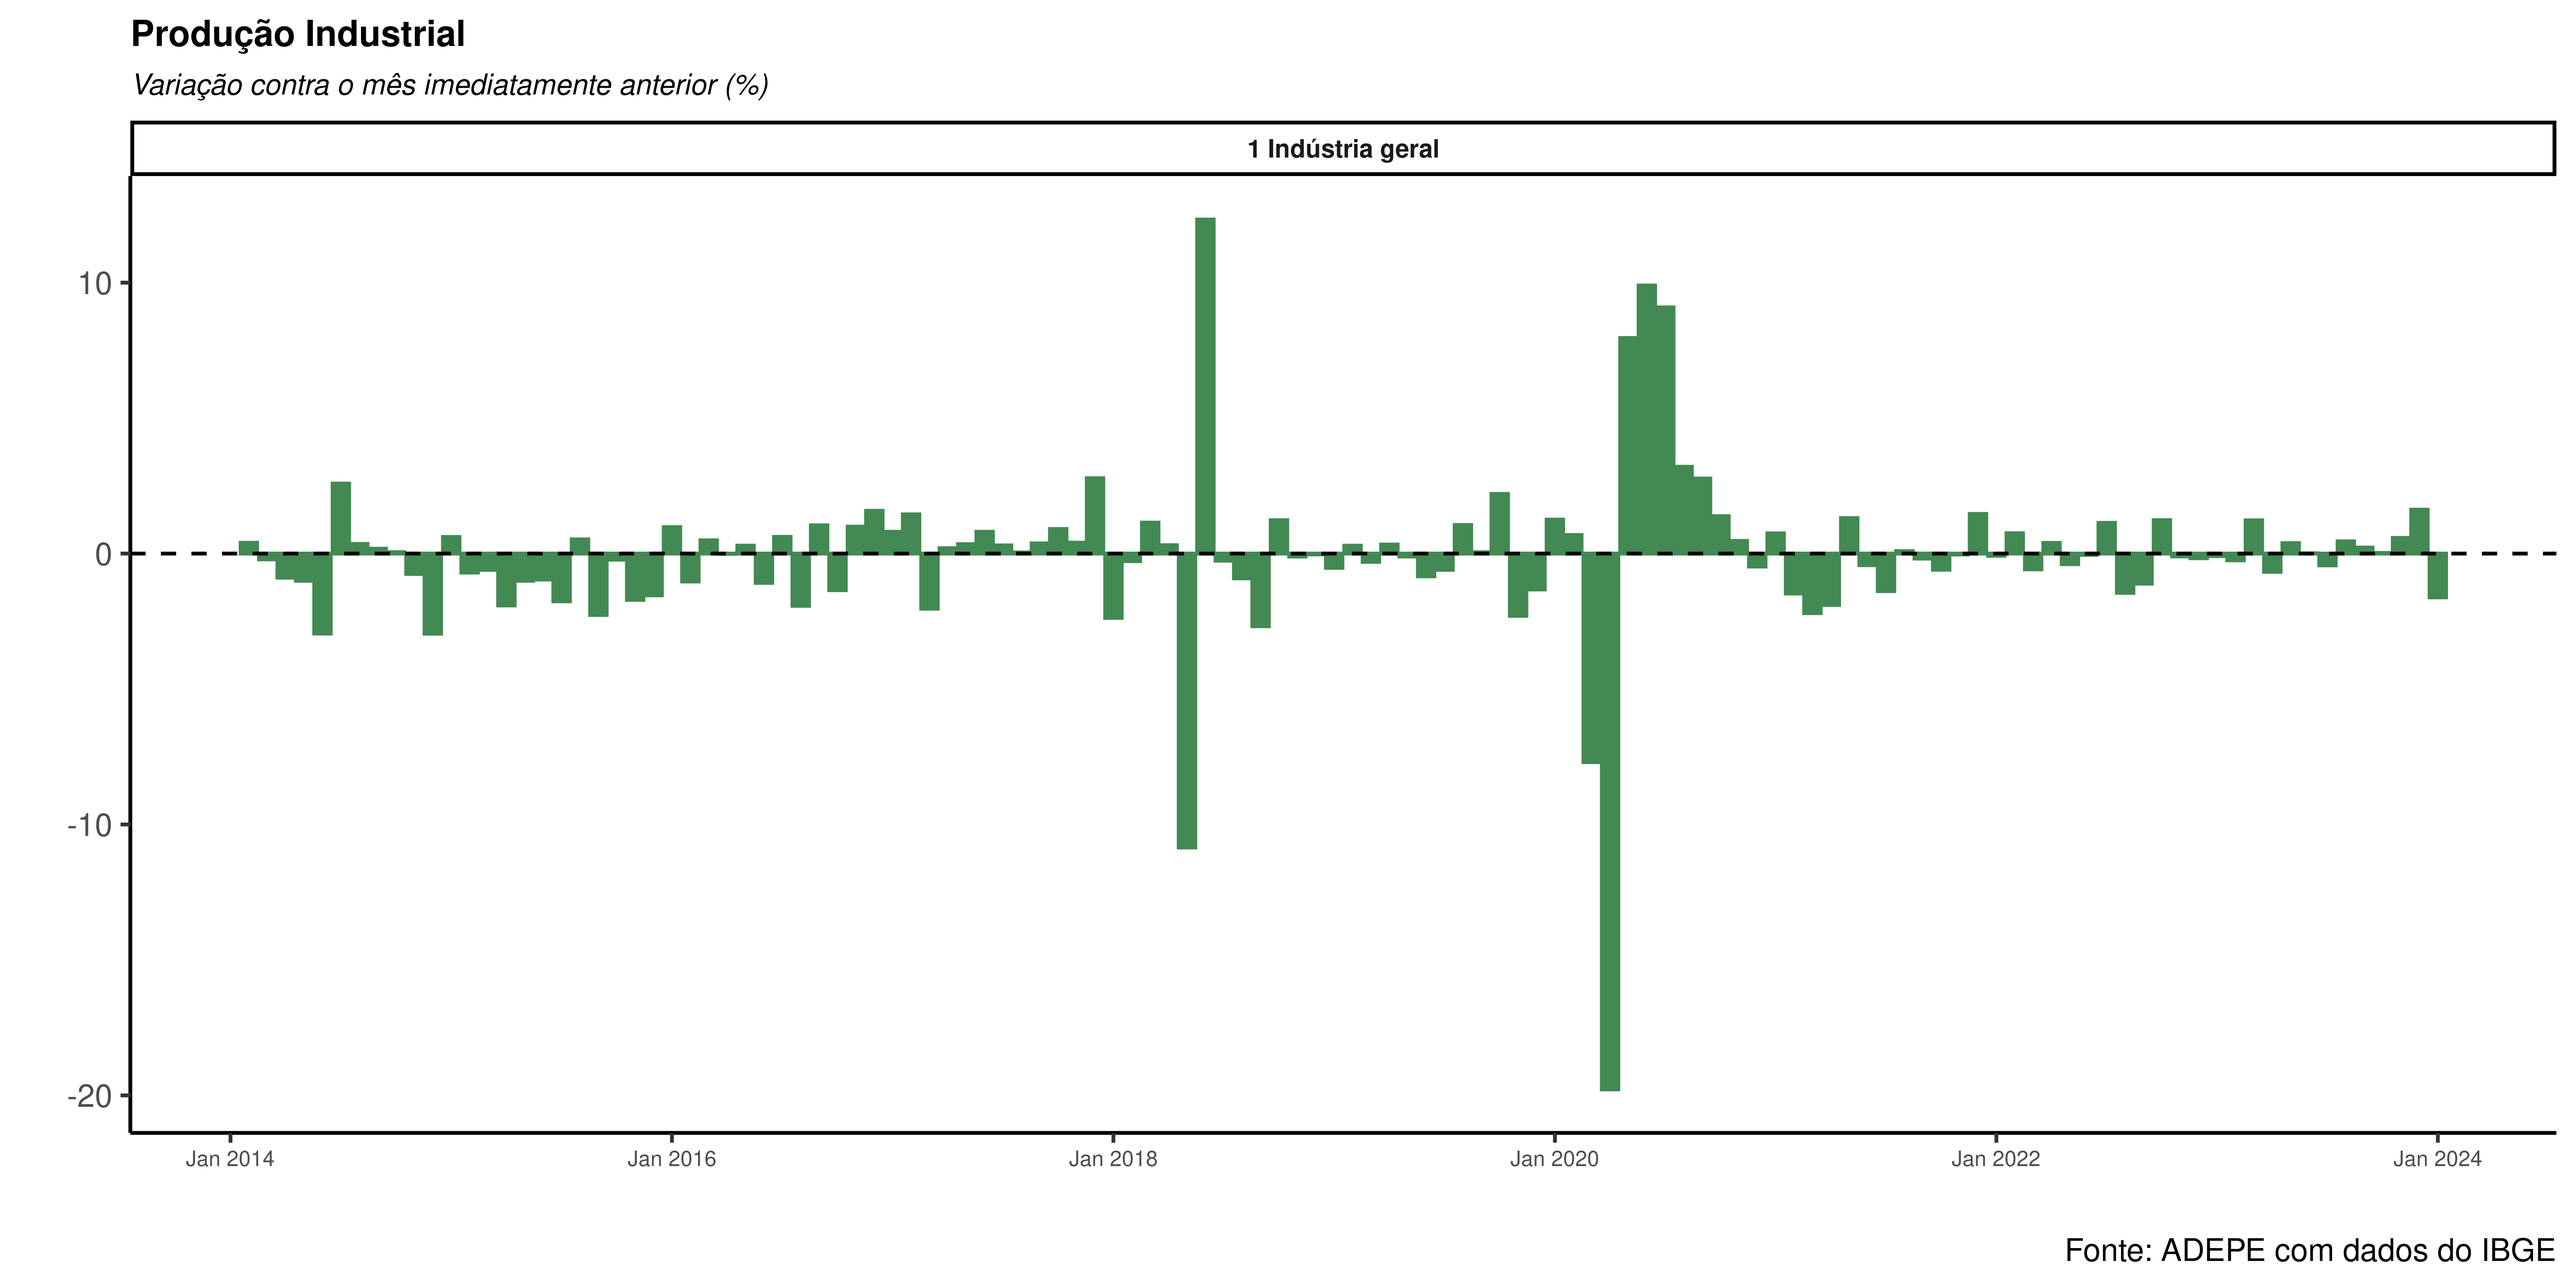
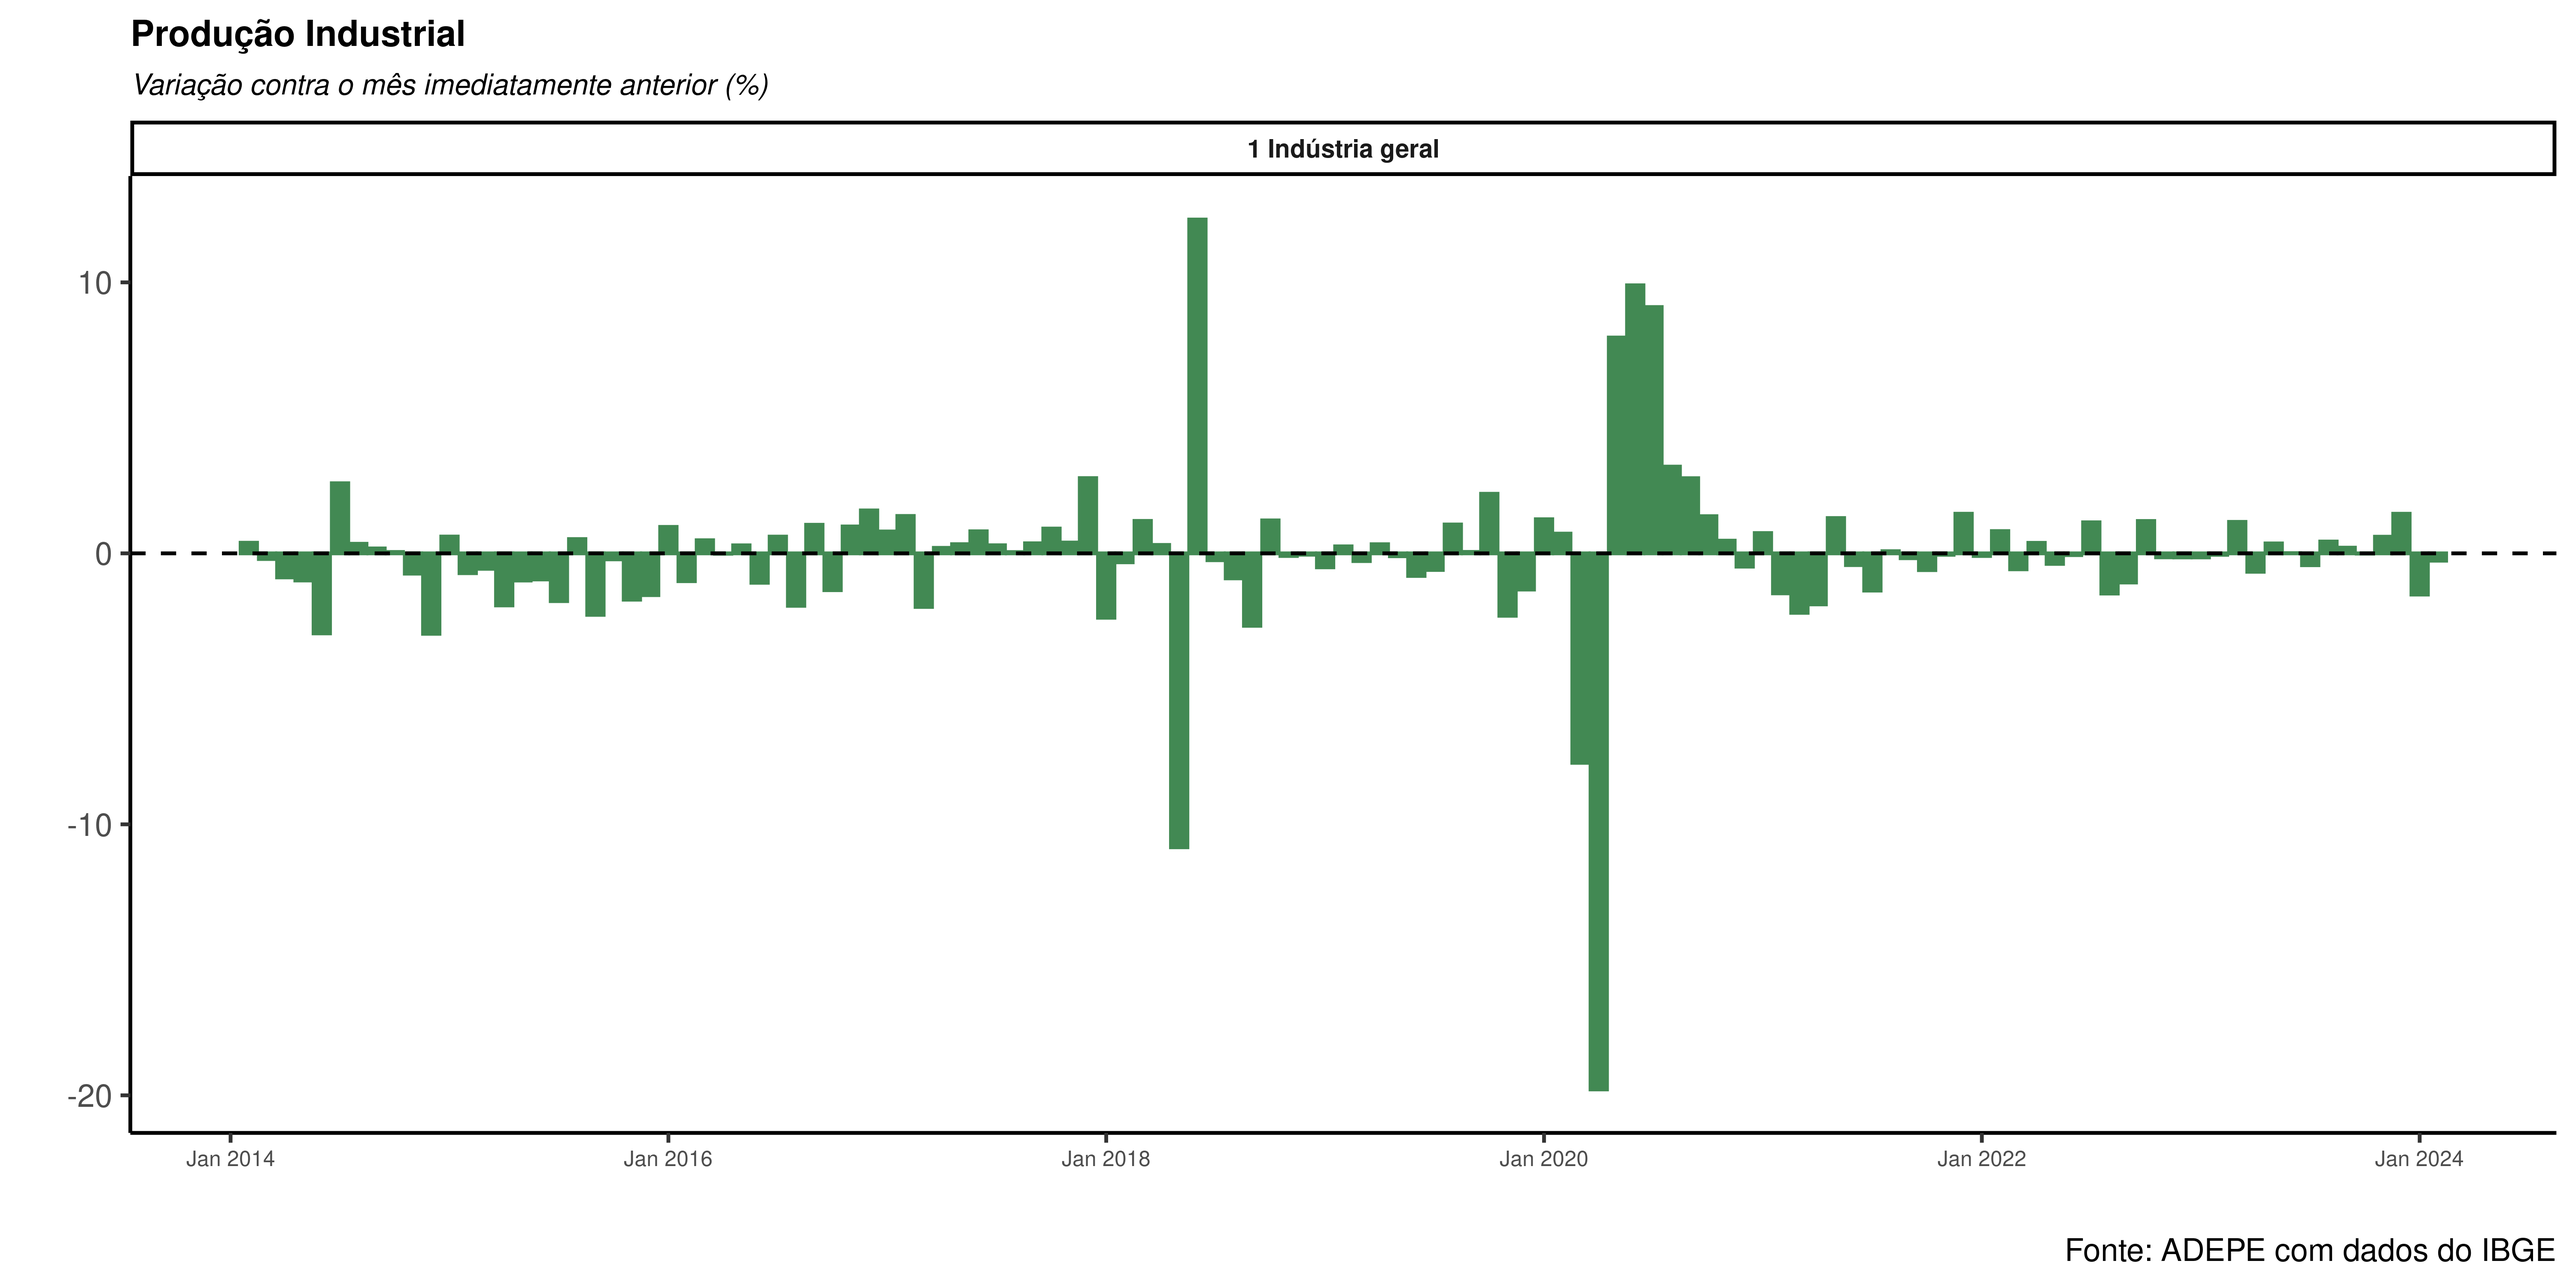
Atualização de relatório automatizada

Changed region(s): [[0.2182, 0.186, 0.9662, 0.837], [0.2493, 0.868, 0.2805, 0.93], [0.935, 0.868, 0.9662, 0.899]]

diff --git a/pim/pim.html b/pim/pim.html
@@ -388,40 +388,40 @@ Núcleo de Dados <br><span style="font-size: 70%;">ADEPE<br><a href="https://git
 </thead>
 <tbody>
 <tr class="odd">
-<td style="text-align: center;">Aug 2023</td>
-<td style="text-align: center;">0.45</td>
-<td style="text-align: center;">-4.83</td>
-<td style="text-align: center;">1.29</td>
-</tr>
-<tr class="even">
 <td style="text-align: center;">Sep 2023</td>
-<td style="text-align: center;">0.22</td>
-<td style="text-align: center;">6.29</td>
-<td style="text-align: center;">-0.74</td>
+<td style="text-align: center;">0.21</td>
+<td style="text-align: center;">6.19</td>
+<td style="text-align: center;">-0.46</td>
 </tr>
-<tr class="odd">
+<tr class="even">
 <td style="text-align: center;">Oct 2023</td>
-<td style="text-align: center;">0.02</td>
-<td style="text-align: center;">-0.43</td>
-<td style="text-align: center;">0.25</td>
-</tr>
-<tr class="even">
-<td style="text-align: center;">Nov 2023</td>
-<td style="text-align: center;">0.58</td>
-<td style="text-align: center;">3.37</td>
-<td style="text-align: center;">-0.05</td>
+<td style="text-align: center;">-0.01</td>
+<td style="text-align: center;">-0.49</td>
+<td style="text-align: center;">0.23</td>
 </tr>
 <tr class="odd">
-<td style="text-align: center;">Dec 2023</td>
-<td style="text-align: center;">1.62</td>
-<td style="text-align: center;">3.21</td>
-<td style="text-align: center;">0.73</td>
+<td style="text-align: center;">Nov 2023</td>
+<td style="text-align: center;">0.61</td>
+<td style="text-align: center;">3.35</td>
+<td style="text-align: center;">-0.11</td>
 </tr>
 <tr class="even">
+<td style="text-align: center;">Dec 2023</td>
+<td style="text-align: center;">1.46</td>
+<td style="text-align: center;">3.80</td>
+<td style="text-align: center;">0.41</td>
+</tr>
+<tr class="odd">
 <td style="text-align: center;">Jan 2024</td>
-<td style="text-align: center;">-1.62</td>
-<td style="text-align: center;">-6.27</td>
-<td style="text-align: center;">-0.31</td>
+<td style="text-align: center;">-1.52</td>
+<td style="text-align: center;">-6.91</td>
+<td style="text-align: center;">0.03</td>
+</tr>
+<tr class="even">
+<td style="text-align: center;">Feb 2024</td>
+<td style="text-align: center;">-0.27</td>
+<td style="text-align: center;">-0.91</td>
+<td style="text-align: center;">0.04</td>
 </tr>
 </tbody>
 </table>
@@ -449,40 +449,40 @@ Núcleo de Dados <br><span style="font-size: 70%;">ADEPE<br><a href="https://git
 </thead>
 <tbody>
 <tr class="odd">
-<td style="text-align: center;">Aug 2023</td>
-<td style="text-align: center;">0.48</td>
-<td style="text-align: center;">2.97</td>
-<td style="text-align: center;">0.07</td>
-</tr>
-<tr class="even">
 <td style="text-align: center;">Sep 2023</td>
-<td style="text-align: center;">0.68</td>
+<td style="text-align: center;">0.65</td>
 <td style="text-align: center;">9.23</td>
-<td style="text-align: center;">-0.77</td>
+<td style="text-align: center;">-0.80</td>
 </tr>
-<tr class="odd">
+<tr class="even">
 <td style="text-align: center;">Oct 2023</td>
-<td style="text-align: center;">1.14</td>
-<td style="text-align: center;">-0.32</td>
-<td style="text-align: center;">1.41</td>
-</tr>
-<tr class="even">
-<td style="text-align: center;">Nov 2023</td>
-<td style="text-align: center;">1.27</td>
-<td style="text-align: center;">14.50</td>
-<td style="text-align: center;">-0.90</td>
+<td style="text-align: center;">1.10</td>
+<td style="text-align: center;">-0.33</td>
+<td style="text-align: center;">1.37</td>
 </tr>
 <tr class="odd">
-<td style="text-align: center;">Dec 2023</td>
-<td style="text-align: center;">1.01</td>
-<td style="text-align: center;">16.97</td>
-<td style="text-align: center;">-2.05</td>
+<td style="text-align: center;">Nov 2023</td>
+<td style="text-align: center;">1.34</td>
+<td style="text-align: center;">14.55</td>
+<td style="text-align: center;">-0.82</td>
 </tr>
 <tr class="even">
+<td style="text-align: center;">Dec 2023</td>
+<td style="text-align: center;">0.88</td>
+<td style="text-align: center;">17.51</td>
+<td style="text-align: center;">-2.31</td>
+</tr>
+<tr class="odd">
 <td style="text-align: center;">Jan 2024</td>
-<td style="text-align: center;">3.60</td>
-<td style="text-align: center;">6.46</td>
-<td style="text-align: center;">3.07</td>
+<td style="text-align: center;">3.71</td>
+<td style="text-align: center;">6.92</td>
+<td style="text-align: center;">3.11</td>
+</tr>
+<tr class="even">
+<td style="text-align: center;">Feb 2024</td>
+<td style="text-align: center;">4.99</td>
+<td style="text-align: center;">5.31</td>
+<td style="text-align: center;">4.93</td>
 </tr>
 </tbody>
 </table>
@@ -510,40 +510,40 @@ Núcleo de Dados <br><span style="font-size: 70%;">ADEPE<br><a href="https://git
 </thead>
 <tbody>
 <tr class="odd">
-<td style="text-align: center;">2023-08-01</td>
-<td style="text-align: center;">-0.13</td>
-<td style="text-align: center;">3.13</td>
-<td style="text-align: center;">-0.76</td>
-</tr>
-<tr class="even">
 <td style="text-align: center;">2023-09-01</td>
-<td style="text-align: center;">0.02</td>
+<td style="text-align: center;">0.01</td>
 <td style="text-align: center;">4.58</td>
 <td style="text-align: center;">-0.81</td>
 </tr>
-<tr class="odd">
-<td style="text-align: center;">2023-10-01</td>
-<td style="text-align: center;">0.01</td>
-<td style="text-align: center;">3.66</td>
-<td style="text-align: center;">-0.67</td>
-</tr>
 <tr class="even">
+<td style="text-align: center;">2023-10-01</td>
+<td style="text-align: center;">0.00</td>
+<td style="text-align: center;">3.66</td>
+<td style="text-align: center;">-0.68</td>
+</tr>
+<tr class="odd">
 <td style="text-align: center;">2023-11-01</td>
 <td style="text-align: center;">0.05</td>
-<td style="text-align: center;">5.16</td>
+<td style="text-align: center;">5.17</td>
 <td style="text-align: center;">-0.88</td>
 </tr>
-<tr class="odd">
+<tr class="even">
 <td style="text-align: center;">2023-12-01</td>
 <td style="text-align: center;">0.15</td>
-<td style="text-align: center;">7.02</td>
-<td style="text-align: center;">-1.02</td>
+<td style="text-align: center;">7.07</td>
+<td style="text-align: center;">-1.04</td>
+</tr>
+<tr class="odd">
+<td style="text-align: center;">2024-01-01</td>
+<td style="text-align: center;">0.40</td>
+<td style="text-align: center;">7.46</td>
+<td style="text-align: center;">-0.80</td>
 </tr>
 <tr class="even">
-<td style="text-align: center;">2024-01-01</td>
-<td style="text-align: center;">0.41</td>
-<td style="text-align: center;">7.37</td>
-<td style="text-align: center;">-0.78</td>
+<td style="text-align: center;">2024-02-01</td>
+<td style="text-align: center;">0.96</td>
+<td style="text-align: center;">7.51</td>
+<td style="text-align: center;">-0.17</td>
 </tr>
 </tbody>
 </table>
